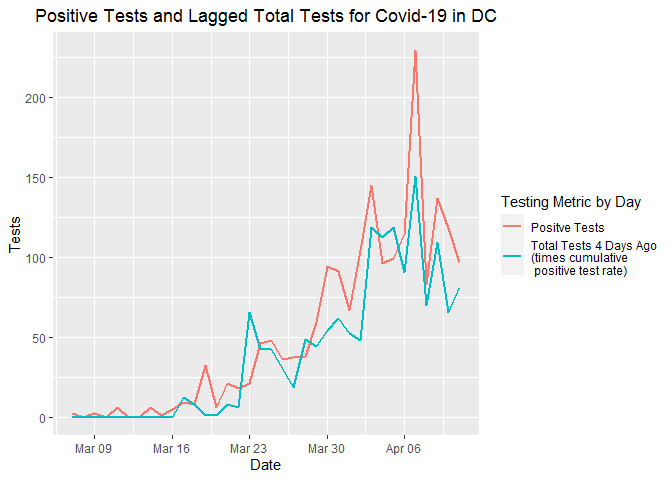
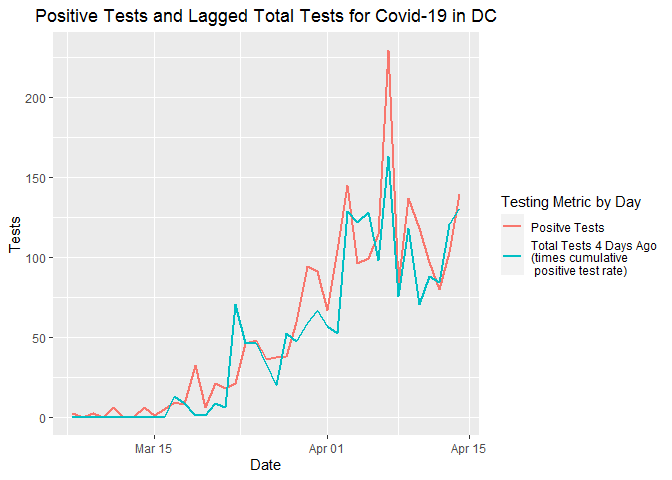
Update with 14 April data

diff --git a/Markdown/Testing_Results_Lag.md b/Markdown/Testing_Results_Lag.md
@@ -3,44 +3,44 @@ Lag in DC Test Results
 
 ### Postive Covid-19 Results in DC Lag by About Four Days
 
-12 April, 2020
+15 April, 2020
 
 The below plot shows the number of Positive Tests in red and the number
 of New Tests (multiplied by the positive test rate) in blue. Although
 the numbers tracked pretty well early on in testing, they have diverged
-recently. The correlation coefficient is currently 0.8180627.
+recently. The correlation coefficient is currently 0.7339686.
 
 ![](Testing_Results_Lag_files/figure-gfm/same_day-1.png)<!-- -->
 
 The below plot shows the number of Positive Tests in red compared to the
 number of New Tests four days ago (times the cumulative positive test
 rate) in blue. These numbers track much better, with a current
-correlation coefficient of 0.9223203.
+correlation coefficient of 0.9246045.
 
 ![](Testing_Results_Lag_files/figure-gfm/lag_4-1.png)<!-- -->
 
 Here is the correlation matrix for those interested in such a thing.
 
     ##             Test_New   Pos_New Test_Lag_1 Test_Lag_2 Test_Lag_3 Test_Lag_4
-    ## Test_New   1.0000000 0.8180627  0.8129040  0.8390431  0.7291386  0.7603697
-    ## Pos_New    0.8180627 1.0000000  0.7272474  0.8115591  0.7796381  0.9223203
-    ## Test_Lag_1 0.8129040 0.7272474  1.0000000  0.8104692  0.8365950  0.7309178
-    ## Test_Lag_2 0.8390431 0.8115591  0.8104692  1.0000000  0.8026037  0.8427214
-    ## Test_Lag_3 0.7291386 0.7796381  0.8365950  0.8026037  1.0000000  0.8065306
-    ## Test_Lag_4 0.7603697 0.9223203  0.7309178  0.8427214  0.8065306  1.0000000
-    ## Test_Lag_5 0.6954809 0.7738058  0.7595599  0.7308147  0.8440853  0.8070948
-    ## Test_Lag_6 0.7443372 0.8509438  0.6997910  0.7691501  0.7381403  0.8457218
-    ## Test_Lag_7 0.6976197 0.8129254  0.7371107  0.6818008  0.7567267  0.7415686
+    ## Test_New   1.0000000 0.7339686  0.7204835  0.7982241  0.6496469  0.6693130
+    ## Pos_New    0.7339686 1.0000000  0.7304063  0.7830946  0.7870896  0.9246045
+    ## Test_Lag_1 0.7204835 0.7304063  1.0000000  0.7898085  0.8201760  0.7252773
+    ## Test_Lag_2 0.7982241 0.7830946  0.7898085  1.0000000  0.8084274  0.8186051
+    ## Test_Lag_3 0.6496469 0.7870896  0.8201760  0.8084274  1.0000000  0.8297817
+    ## Test_Lag_4 0.6693130 0.9246045  0.7252773  0.8186051  0.8297817  1.0000000
+    ## Test_Lag_5 0.6106773 0.7935265  0.7689716  0.7215526  0.8526638  0.8260539
+    ## Test_Lag_6 0.6992365 0.8563329  0.7020480  0.7656685  0.7509179  0.8491750
+    ## Test_Lag_7 0.6208070 0.8084250  0.7535456  0.7016906  0.7780175  0.7504594
     ##            Test_Lag_5 Test_Lag_6 Test_Lag_7
-    ## Test_New    0.6954809  0.7443372  0.6976197
-    ## Pos_New     0.7738058  0.8509438  0.8129254
-    ## Test_Lag_1  0.7595599  0.6997910  0.7371107
-    ## Test_Lag_2  0.7308147  0.7691501  0.6818008
-    ## Test_Lag_3  0.8440853  0.7381403  0.7567267
-    ## Test_Lag_4  0.8070948  0.8457218  0.7415686
-    ## Test_Lag_5  1.0000000  0.8091787  0.8488025
-    ## Test_Lag_6  0.8091787  1.0000000  0.8209136
-    ## Test_Lag_7  0.8488025  0.8209136  1.0000000
+    ## Test_New    0.6106773  0.6992365  0.6208070
+    ## Pos_New     0.7935265  0.8563329  0.8084250
+    ## Test_Lag_1  0.7689716  0.7020480  0.7535456
+    ## Test_Lag_2  0.7215526  0.7656685  0.7016906
+    ## Test_Lag_3  0.8526638  0.7509179  0.7780175
+    ## Test_Lag_4  0.8260539  0.8491750  0.7504594
+    ## Test_Lag_5  1.0000000  0.8174149  0.8536711
+    ## Test_Lag_6  0.8174149  1.0000000  0.8196731
+    ## Test_Lag_7  0.8536711  0.8196731  1.0000000
 
 A couple notes. First, the test counts for 20 March were missing so I
 averaged the 19 March and 21 March test rate. In addition, for the
